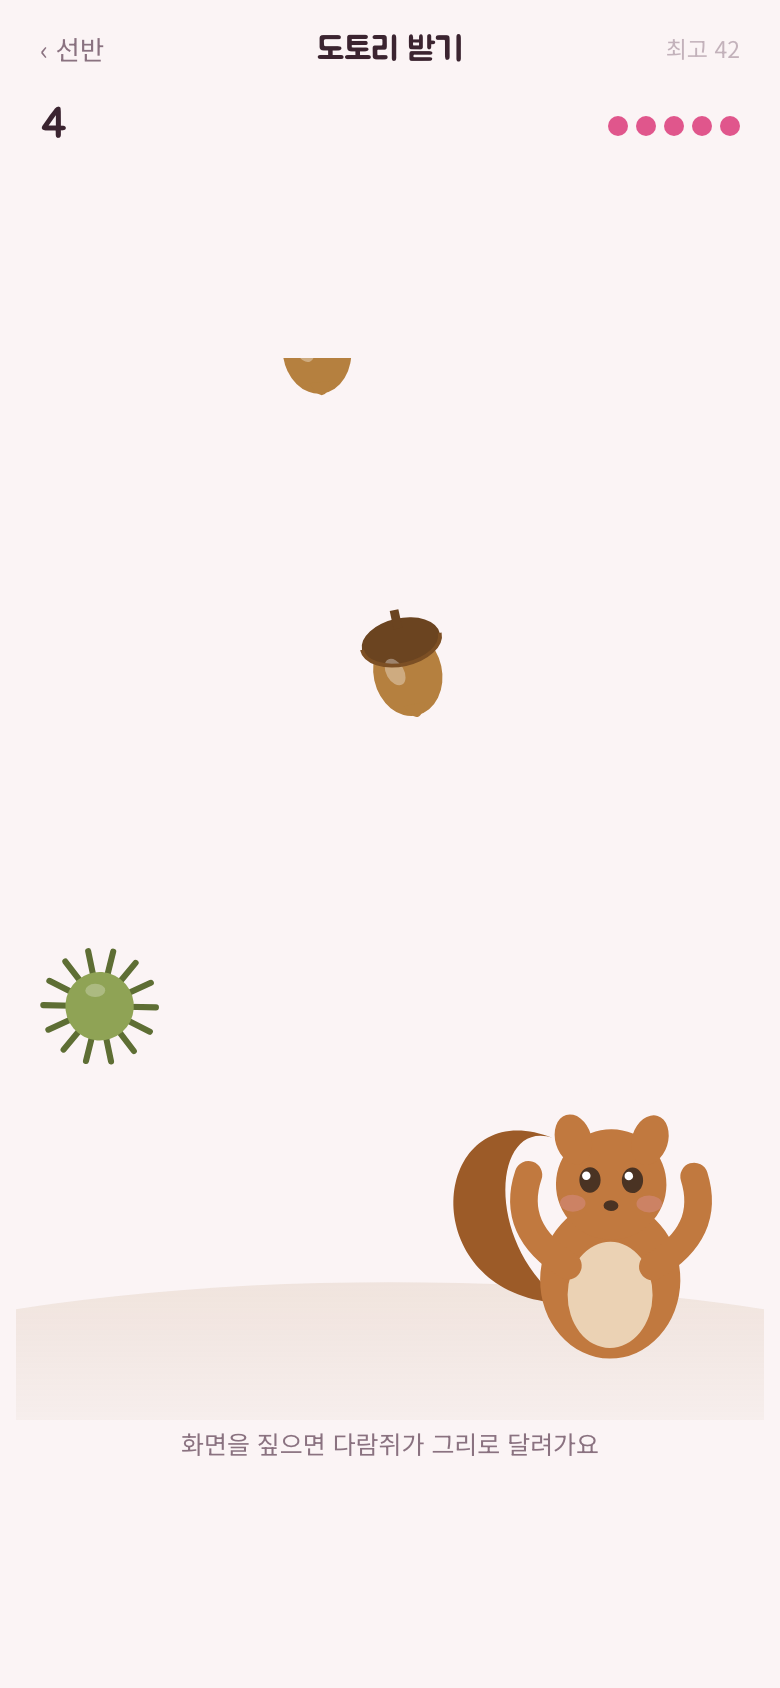
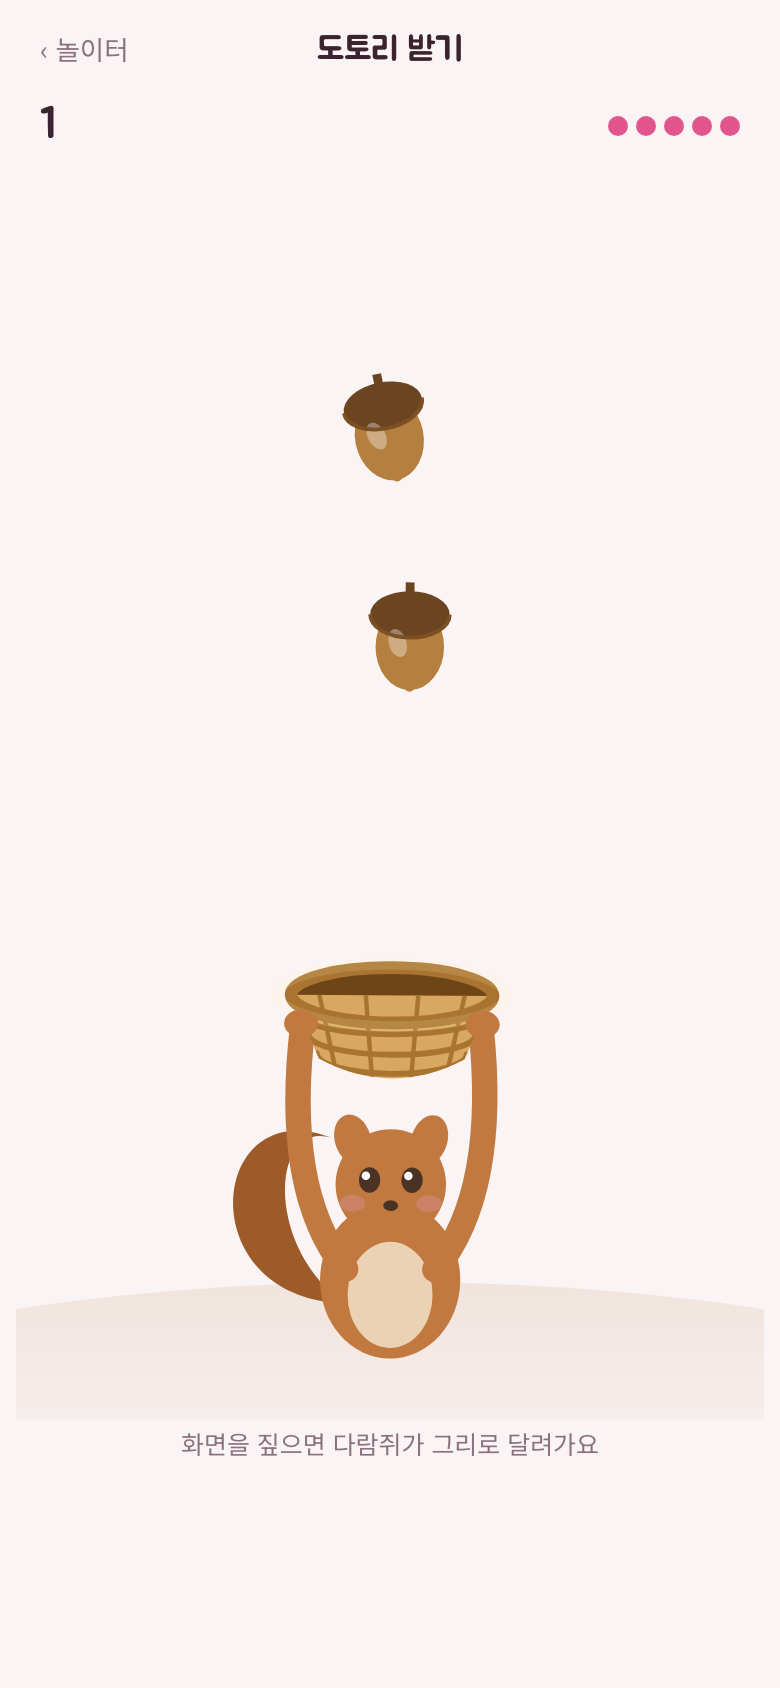
도토리 받기 - 다람쥐가 바구니를 들고 받게
처음엔 팔을 벌리고 서 있고, 몸 가운데에서 화면 폭의 14% 안에 들어오면 받은
것으로 쳤다. 그 14%가 어디부터 어디까지인지는 화면 어디에도 안 나와서, 빗맞아도
왜 못 받았는지 알 수가 없다. 바구니를 들려줬다. 이제 받는 자리가 바구니
아가리고, 아가리를 지나갔는지로만 따진다.

그리는 쪽과 따지는 쪽이 같은 숫자를 본다. 바구니 치수를 한 군데 적어두고
basketMouth 로 꺼내 쓴다. 따로 적으면 언젠가 한쪽만 고쳐서, 바구니 밖에
떨어졌는데 받아지거나 그 반대가 된다. 화면 크기 넷에서 그려진 테두리와 규칙의
경계를 픽셀로 재봤다 - 규칙이 보는 선은 테두리 획의 한가운데였다.

구간이 아니라 선을 지나쳤는지로 본다. "아가리 높이 근처" 같은 구간으로 보면
속도가 붙었을 때 한 프레임에 건너뛰어서 바구니를 통과해 버린다.

바구니째로 화면 안에 있게 손가락 닿는 범위도 좁혔다. 반쯤 잘려 나가면 받는
자리가 안 보인다.

어려워졌나 재봤다. 같은 봇으로 바꾸기 전 0·5·3·7점, 바꾼 뒤 4점 - 그대로다.

diff --git a/src/lib/autumn.ts b/src/lib/autumn.ts
@@ -21,6 +21,10 @@ const FUR = "#C1793F";
 const FUR_DARK = "#9C5B28";
 const BELLY = "#EBD2B4";
 
+const CANE = "#D9A860";
+const CANE_DARK = "#A9742F";
+const CANE_DEEP = "#6E4517";
+
 /* ---------- 그림 ---------- */
 
 /** 도토리 한 알. 깍정이가 있어야 도토리로 읽힌다. */
@@ -125,10 +129,33 @@ export function drawFalling(
 }
 
 /**
+ * 바구니 치수. 다람쥐 기준점(발밑)에서 r 배수로 잰다.
+ *
+ * 그리는 쪽과 받았는지 따지는 쪽이 이 숫자 하나를 같이 본다. 따로 적어두면
+ * 언젠가 한쪽만 고쳐서, 바구니 밖에 떨어졌는데 받아지거나 그 반대가 된다.
+ */
+const BASKET = {
+  /** 아가리가 발밑에서 얼마나 위인가. 귀가 가리지 않을 만큼은 들어야 한다. */
+  lift: 2.4,
+  /** 아가리 반폭 */
+  half: 0.95,
+  /** 아가리 타원의 세로 반지름 - 원근을 주는 만큼 */
+  rim: 0.26,
+  /** 아가리에서 바닥까지 */
+  deep: 0.6,
+};
+
+/** 바구니 아가리가 화면 어디에 있나. 받았는지는 이걸로만 따진다. */
+export function basketMouth(x: number, groundY: number, r: number) {
+  return { x, y: groundY - r * BASKET.lift, half: r * BASKET.half };
+}
+
+/**
  * 다람쥐.
  *
- * 팔을 위로 벌려 그릇을 만든다. 그 사이가 받는 자리라서, 어디로 받는지
- * 설명하지 않아도 보인다. 꼬리는 몸보다 커야 다람쥐로 읽힌다.
+ * 바구니를 머리 위로 들고 받는다. 받는 자리가 그림으로 딱 정해져 있어서,
+ * 어디로 받는지 설명할 필요가 없고 빗맞았을 때도 왜 못 받았는지가 보인다.
+ * 꼬리는 몸보다 커야 다람쥐로 읽힌다.
  */
 export function drawSquirrel(
   ctx: CanvasRenderingContext2D,
@@ -163,15 +190,15 @@ export function drawSquirrel(
   ctx.ellipse(0, r * 0.42, r * 0.4, r * 0.5, 0, 0, Math.PI * 2);
   ctx.fill();
 
-  // 팔 - 받으려고 위로 벌린다. 받은 직후엔 더 번쩍 든다.
-  const raise = 0.9 + joy * 0.45;
+  // 팔 - 바구니 양옆을 붙잡고 머리 위로 들어 올린다
+  const grip = -r * (BASKET.lift - BASKET.deep * 0.45);
   ctx.strokeStyle = FUR;
-  ctx.lineWidth = r * 0.26;
+  ctx.lineWidth = r * 0.24;
   ctx.lineCap = "round";
   for (const side of [-1, 1]) {
     ctx.beginPath();
-    ctx.moveTo(side * r * 0.4, r * 0.15);
-    ctx.quadraticCurveTo(side * r * 0.95, -r * 0.2 * raise, side * r * 0.78, -r * 0.78 * raise);
+    ctx.moveTo(side * r * 0.42, r * 0.18);
+    ctx.quadraticCurveTo(side * r * 1.02, -r * 0.55, side * r * BASKET.half * 0.88, grip);
     ctx.stroke();
   }
 
@@ -223,7 +250,78 @@ export function drawSquirrel(
     ctx.fill();
   }
 
+  drawBasket(ctx, r, joy);
+  // 붙잡은 앞발은 바구니 위에 얹혀야 든 것으로 보인다
+  ctx.fillStyle = FUR;
+  for (const side of [-1, 1]) {
+    ctx.beginPath();
+    ctx.ellipse(side * r * BASKET.half * 0.9, grip, r * 0.16, r * 0.13, 0, 0, Math.PI * 2);
+    ctx.fill();
+  }
+
   ctx.restore();
+}
+
+/** 들고 있는 바구니. 아가리가 곧 받는 자리라서 테두리를 또렷하게 둔다. */
+function drawBasket(ctx: CanvasRenderingContext2D, r: number, joy: number) {
+  const cy = -r * BASKET.lift;
+  const half = r * BASKET.half;
+  const rim = r * BASKET.rim;
+  const deep = r * BASKET.deep;
+  const foot = half * 0.72;
+
+  // 아가리 안쪽. 구멍이 보여야 들어가는 자리로 읽힌다.
+  ctx.fillStyle = CANE_DEEP;
+  ctx.beginPath();
+  ctx.ellipse(0, cy, half, rim, 0, 0, Math.PI * 2);
+  ctx.fill();
+
+  // 몸통 - 아래로 좁아지다 바닥에서 둥글게 닫힌다
+  ctx.fillStyle = CANE;
+  ctx.beginPath();
+  ctx.moveTo(-half, cy);
+  ctx.lineTo(-foot, cy + deep);
+  ctx.quadraticCurveTo(0, cy + deep + rim * 1.4, foot, cy + deep);
+  ctx.lineTo(half, cy);
+  ctx.closePath();
+  ctx.fill();
+
+  // 엮은 결. 가로 띠와 세로 살이 있어야 바구니지 그냥 통이 아니다.
+  ctx.save();
+  ctx.clip();
+  ctx.strokeStyle = CANE_DARK;
+  ctx.lineWidth = r * 0.055;
+  for (const t of [0.3, 0.62, 0.92]) {
+    const y = cy + deep * t;
+    const wide = half + (foot - half) * t;
+    ctx.beginPath();
+    ctx.ellipse(0, y, wide, rim * 0.72, 0, 0, Math.PI);
+    ctx.stroke();
+  }
+  ctx.lineWidth = r * 0.042;
+  for (const u of [-0.72, -0.26, 0.26, 0.72]) {
+    ctx.beginPath();
+    ctx.moveTo(half * u, cy);
+    ctx.lineTo(foot * u, cy + deep + rim);
+    ctx.stroke();
+  }
+  ctx.restore();
+
+  // 테두리 - 앞쪽만 굵게 둘러 아가리를 또렷하게
+  ctx.strokeStyle = CANE_DARK;
+  ctx.lineWidth = r * 0.12;
+  ctx.beginPath();
+  ctx.ellipse(0, cy, half, rim, 0, 0, Math.PI * 2);
+  ctx.stroke();
+
+  // 받은 직후엔 아가리가 한 번 환해진다. 방금 여기로 들어갔다는 표시다.
+  if (joy > 0.05) {
+    ctx.strokeStyle = `rgba(255, 236, 178, ${joy * 0.9})`;
+    ctx.lineWidth = r * 0.1;
+    ctx.beginPath();
+    ctx.ellipse(0, cy, half * (1 + (1 - joy) * 0.16), rim * (1 + (1 - joy) * 0.16), 0, 0, Math.PI * 2);
+    ctx.stroke();
+  }
 }
 
 /* ---------- 소리 ---------- */

diff --git a/src/screens/AcornScreen.tsx b/src/screens/AcornScreen.tsx
@@ -4,6 +4,7 @@ import { Link } from "react-router";
 import { db, writeSetting } from "../data/db";
 import {
   type Falling,
+  basketMouth,
   drawFalling,
   drawSquirrel,
   playCatch,
@@ -23,6 +24,8 @@ interface Item {
   /** 화면 높이를 1 로 둔 자리 */
   y: number;
   vy: number;
+  /** 지난 프레임의 y. 바구니 아가리를 지나쳤는지 이걸로 본다. */
+  wasY: number;
   rot: number;
   vr: number;
   /** 은행잎만 좌우로 팔랑인다 */
@@ -34,8 +37,6 @@ interface Item {
 const LIVES = 5;
 /** 다람쥐가 서 있는 높이 (화면 높이를 1 로 둔 자리) */
 const GROUND = 0.84;
-/** 이 폭 안에 들어오면 받은 것으로 친다 (화면 폭 대비) */
-const CATCH = 0.14;
 
 let seq = 0;
 
@@ -91,6 +92,7 @@ export function AcornScreen() {
     };
     fit();
     const onResize = () => fit();
+    const squirrelR = () => Math.min(w * 0.15, h * 0.1);
     window.addEventListener("resize", onResize);
 
     /* ---------- 손가락 ---------- */
@@ -99,7 +101,10 @@ export function AcornScreen() {
     // 그래서 화면 아무 데나 짚어도 그 가로 자리로 달려가게 한다.
     const aimAt = (e: PointerEvent) => {
       const box = canvas.getBoundingClientRect();
-      squirrel.current.aim = Math.min(0.92, Math.max(0.08, (e.clientX - box.left) / box.width));
+      // 바구니째로 화면 안에 있어야 한다. 반쯤 잘려 나가면 받는 자리가 안 보인다.
+      const edge = basketMouth(0, 0, squirrelR()).half / w + 0.02;
+      const at = (e.clientX - box.left) / box.width;
+      squirrel.current.aim = Math.min(1 - edge, Math.max(edge, at));
     };
     const onDown = (e: PointerEvent) => {
       try {
@@ -132,6 +137,7 @@ export function AcornScreen() {
         kind,
         x: 0.1 + Math.random() * 0.8,
         y: -0.08,
+        wasY: -0.08,
         vy: speed * (0.85 + Math.random() * 0.3),
         // 도토리는 꼭지가 위로 선 채 갸우뚱거려야 도토리로 읽힌다.
         // 마구 돌리면 깍정이가 밑으로 가서 무슨 팽이처럼 보인다.
@@ -177,16 +183,22 @@ export function AcornScreen() {
       s.joy = Math.max(0, s.joy - dt * 2.6);
 
       for (const it of items.current) {
+        it.wasY = it.y;
         it.y += it.vy * dt;
         it.rot += it.vr * dt;
         it.swayAt += dt * 2.6;
       }
 
+      // 받았는지는 바구니 아가리로만 따진다. 그림과 같은 숫자를 본다.
+      const mouth = basketMouth(s.x * w, h * GROUND, squirrelR());
+
       const kept: Item[] = [];
       for (const it of items.current) {
         const x = it.x + Math.sin(it.swayAt) * it.swayBy;
-        if (it.y >= GROUND - 0.03 && it.y <= GROUND + 0.06) {
-          if (Math.abs(x - s.x) < CATCH) {
+        // 아가리 높이를 이번 프레임에 지나쳤나. 구간으로 보면 빨라졌을 때
+        // 한 프레임에 건너뛰어서 그냥 통과해 버린다.
+        if (it.wasY * h <= mouth.y && it.y * h > mouth.y) {
+          if (Math.abs(x * w - mouth.x) <= mouth.half) {
             if (it.kind === "burr") {
               if (!muted.current) playOuch();
               navigator.vibrate?.([18, 40, 18]);
@@ -244,7 +256,7 @@ export function AcornScreen() {
       }
 
       const s = squirrel.current;
-      drawSquirrel(ctx, s.x * w, h * GROUND, Math.min(w * 0.15, h * 0.1), s.lean, s.joy);
+      drawSquirrel(ctx, s.x * w, h * GROUND, squirrelR(), s.lean, s.joy);
 
       raf = requestAnimationFrame(draw);
     };

diff --git a/docs/manual.html b/docs/manual.html
@@ -610,14 +610,15 @@
     </article>
 
     <article class="feature">
-      <div class="shot"><img src="screens/22-acorn.png" alt="도토리 받기. 다람쥐가 팔을 벌리고 서 있고 위에서 도토리와 밤송이가 떨어진다" loading="lazy"></div>
+      <div class="shot"><img src="screens/22-acorn.png" alt="도토리 받기. 다람쥐가 바구니를 머리 위로 들고 서 있고 위에서 도토리가 떨어진다" loading="lazy"></div>
       <div class="body">
         <span class="eyebrow">놀이터 → 도토리 받기</span>
         <h3>도토리 받기</h3>
-        <p>가을 놀이. 떨어지는 도토리를 다람쥐로 받습니다. <b>화면 아무 데나 짚으면</b> 다람쥐가 그리로 달려가요 — 다람쥐를 직접 끌면 손가락이 가려서 안 보이거든요.</p>
+        <p>가을 놀이. 다람쥐가 <b>바구니를 머리 위로 들고</b> 떨어지는 도토리를 받습니다. <b>화면 아무 데나 짚으면</b> 다람쥐가 그리로 달려가요 — 다람쥐를 직접 끌면 손가락이 가려서 안 보이거든요.</p>
         <ul class="points">
+          <li><b>바구니 아가리 안에 떨어져야 받은 거예요.</b> 다람쥐 몸에 스친 건 안 쳐줍니다 — 받는 자리가 그림으로 딱 보이니까요</li>
           <li><b>도토리</b> 1점, <b>은행잎</b> 3점. 은행잎은 팔랑팔랑 천천히 떨어져서 잡기 쉬워요</li>
-          <li><b>밤송이</b>는 받으면 아파요. 가시가 보이니 피하세요</li>
+          <li><b>밤송이</b>는 바구니에 들어가면 아파요. 가시가 보이니 피하세요</li>
           <li>도토리를 <b>놓쳐도</b> 목숨이 깎입니다. 목숨은 다섯 개</li>
           <li>연달아 받으면 음이 한 계단씩 올라가서 저절로 가락이 돼요</li>
           <li>최고 기록이 남습니다</li>

diff --git a/public/manual/index.html b/public/manual/index.html
@@ -610,14 +610,15 @@
     </article>
 
     <article class="feature">
-      <div class="shot"><img src="screens/22-acorn.png" alt="도토리 받기. 다람쥐가 팔을 벌리고 서 있고 위에서 도토리와 밤송이가 떨어진다" loading="lazy"></div>
+      <div class="shot"><img src="screens/22-acorn.png" alt="도토리 받기. 다람쥐가 바구니를 머리 위로 들고 서 있고 위에서 도토리가 떨어진다" loading="lazy"></div>
       <div class="body">
         <span class="eyebrow">놀이터 → 도토리 받기</span>
         <h3>도토리 받기</h3>
-        <p>가을 놀이. 떨어지는 도토리를 다람쥐로 받습니다. <b>화면 아무 데나 짚으면</b> 다람쥐가 그리로 달려가요 — 다람쥐를 직접 끌면 손가락이 가려서 안 보이거든요.</p>
+        <p>가을 놀이. 다람쥐가 <b>바구니를 머리 위로 들고</b> 떨어지는 도토리를 받습니다. <b>화면 아무 데나 짚으면</b> 다람쥐가 그리로 달려가요 — 다람쥐를 직접 끌면 손가락이 가려서 안 보이거든요.</p>
         <ul class="points">
+          <li><b>바구니 아가리 안에 떨어져야 받은 거예요.</b> 다람쥐 몸에 스친 건 안 쳐줍니다 — 받는 자리가 그림으로 딱 보이니까요</li>
           <li><b>도토리</b> 1점, <b>은행잎</b> 3점. 은행잎은 팔랑팔랑 천천히 떨어져서 잡기 쉬워요</li>
-          <li><b>밤송이</b>는 받으면 아파요. 가시가 보이니 피하세요</li>
+          <li><b>밤송이</b>는 바구니에 들어가면 아파요. 가시가 보이니 피하세요</li>
           <li>도토리를 <b>놓쳐도</b> 목숨이 깎입니다. 목숨은 다섯 개</li>
           <li>연달아 받으면 음이 한 계단씩 올라가서 저절로 가락이 돼요</li>
           <li>최고 기록이 남습니다</li>

diff --git a/README.md b/README.md
@@ -136,7 +136,7 @@
 | 길 만들기 | 같은 젤리끼리 잇되 길이 겹치면 안 되고 빈 칸도 남으면 안 된다 |
 | 개수 비교 | 젤리가 많은 쪽 빠르게 고르기. 알 크기가 매번 달라서 넓이로는 못 맞힌다 |
 | 순서 외우기 | 반짝인 젤리를 그 순서대로. 젤리마다 음이 달라서 가락으로도 외워진다 |
-| 도토리 받기 | 가을 놀이. 떨어지는 도토리를 다람쥐로 받고 밤송이는 피한다. 최고 기록이 남는다 |
+| 도토리 받기 | 가을 놀이. 다람쥐가 바구니를 들고 받는다. 아가리 안에 떨어져야 받은 것. 밤송이는 피한다 |
 | 코끼리 배 | 두드리면 북처럼 운다. 코를 당겨 한 바퀴 돌리거나 머리를 쓰다듬으면 뿌우 하고 울고, 바닥 젤리를 누르면 코로 주워 먹고 야르 한다 |
 | 설정 | 닉네임, 테마 5색, 소리, 기울이기, 설명서, 홈 화면에 추가, 백업 내보내기·복원, 전체 삭제 |
 
@@ -249,7 +249,7 @@ src/
   lib/waxball.ts           왁뿌볼 모양 계산 (순수 함수)
   lib/squish.ts            왁스 깨짐과 말랑이 소리
   lib/audio.ts             AudioContext 와 잡음 버퍼 - 소리 내는 파일들이 나눠 쓴다
-  lib/autumn.ts            다람쥐·도토리·은행잎·밤송이 그리기와 소리
+  lib/autumn.ts            다람쥐·바구니·도토리·은행잎·밤송이 그리기와 소리
   lib/chime.ts             순서 외우기의 음 (5음 음계 마림바)
   lib/maze.ts              길 만들기 퍼즐 만들기 (해밀턴 경로를 토막 내서)
   lib/rotate.ts            도형 회전 문제 만들기 (돌린 것과 뒤집은 것 가리기)
@@ -407,6 +407,21 @@ px 로 두면 선반의 작은 병에서 뚜껑만 두꺼워 보인다.
 
 **모은 기간은 달이 아니라 날로 센다.** 달로 세면 9월 30일에 시작해도 10월 1일에
 '2달'이 된다. 첫 기록부터 오늘까지 며칠째인지가 모은 사람이 알고 싶은 숫자다.
+
+**받는 자리는 그림으로 있어야 한다.** 처음엔 다람쥐가 팔을 벌리고 서 있고,
+몸 가운데에서 화면 폭의 14% 안에 들어오면 받은 것으로 쳤다. 그 14%가 어디부터
+어디까지인지는 화면 어디에도 안 나와서, 빗맞으면 왜 못 받았는지 알 수가 없다.
+바구니를 들려줬다. 이제 받는 자리가 바구니 아가리고, 아가리를 지나갔는지로만
+따진다.
+
+그러려면 그리는 쪽과 따지는 쪽이 같은 숫자를 봐야 한다. 바구니 치수를 한 군데
+적어두고 양쪽이 그걸 읽는다. 따로 적으면 언젠가 한쪽만 고쳐서, 바구니 밖에
+떨어졌는데 받아지거나 그 반대가 된다. 화면 크기 넷에서 그린 테두리와 규칙의
+경계가 어긋나는지 재봤다 - 규칙이 보는 선은 테두리 획의 한가운데였다.
+
+받았는지는 구간이 아니라 **선을 지나쳤는지**로 본다. "아가리 높이 근처" 같은
+구간으로 보면, 속도가 붙었을 때 한 프레임에 그 구간을 건너뛰어서 바구니를
+통과해 버린다.
 
 **받는 것과 목숨을 같은 그림으로 세면 안 된다.** 목숨을 도토리로 표시했더니
 점수인지 목숨인지 구분이 안 됐다. 목숨은 점으로 뺐다. 그리고 놓친 것도 목숨을
